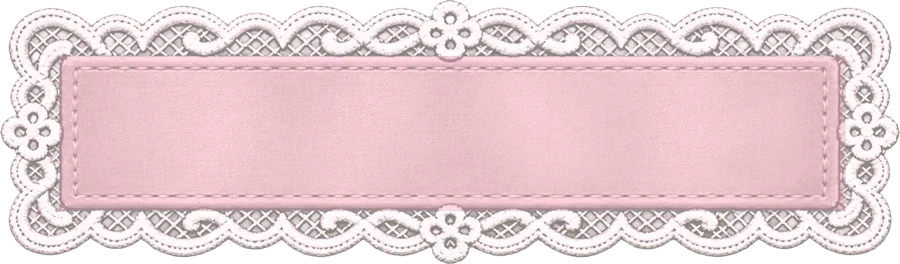
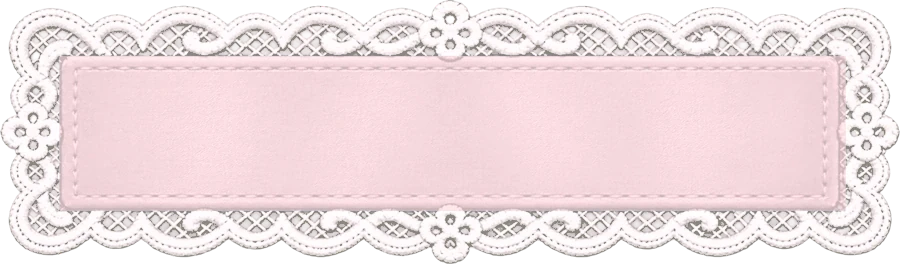
Lighter baby-pink labels (a new pale patch and lace); on phones AI와 상의 rises from the bottom as a sheet that can be pulled down or tapped away any time

diff --git a/components/newbook/AiPanel.tsx b/components/newbook/AiPanel.tsx
@@ -119,7 +119,13 @@ export function AiPanel({ draft, step, onApply }: { draft: Draft; step: number; 
   const [menu, setMenu] = useState<null | "main" | "rename" | "link">(null), [ask, setAsk] = useState<string | null>(null), [name, setName] = useState("");
   const [slid, setSlid] = useState<string | null>(null), [rowMenu, setRowMenu] = useState<string | null>(null);
   const msgsRef = useRef<HTMLDivElement>(null), inputRef = useRef<HTMLTextAreaElement>(null), wasOpen = useRef(false);
-  const setOpen = (o: boolean) => setChat(c => ({ ...c, open: o }));
+  const setOpen = (o: boolean) => {
+    if (o || !phone) { setChat(c => ({ ...c, open: o })); return; }
+    // phones: the sheet goes back down first (0.22s), then it is gone
+    setSinking(true); setTimeout(() => { setSinking(false); setDrag(0); setChat(c => ({ ...c, open: false })); }, matchMedia("(prefers-reduced-motion: reduce)").matches ? 0 : 220);
+  };
+  // phones: the sheet is pulled down by its top (the handle or the bar) and put away past 110px
+  const [drag, setDrag] = useState(0), [sinking, setSinking] = useState(false), y0 = useRef<number | null>(null);
   const go = (id: string | null) => { setMenu(null); setChat(c => ({ ...c, conv: id })); };
   const offChat = () => setChat(c => ({ ...c, off: true, checked: true }));
 
@@ -375,9 +381,14 @@ export function AiPanel({ draft, step, onApply }: { draft: Draft; step: number; 
   if (!open) return null;
   const phoneScreen: ReactNode = convId === null ? (counts.live || counts.arch ? list : chatPane) : chatPane;
   return (
-    <div className={"aic-root" + (phone ? " is-phone" : " is-wide") + (sheet ? " is-sheet" : "")}>
+    <div className={"aic-root" + (phone ? " is-phone" : " is-wide") + (sheet ? " is-sheet" : "") + (sinking ? " is-sinking" : "")}>
       <div className="aic-dim aic-back" onClick={() => setOpen(false)} />
-      <div className="aic-panel" role="dialog" aria-modal="true" aria-label="AI와 상의">
+      <div className="aic-panel" role="dialog" aria-modal="true" aria-label="AI와 상의"
+        style={phone && drag ? { transform: `translateY(${drag}px)`, transition: "none" } : undefined}
+        onTouchStart={phone ? e => { const top = e.currentTarget.getBoundingClientRect().top; y0.current = e.touches[0].clientY - top < 64 ? e.touches[0].clientY : null; } : undefined}
+        onTouchMove={phone ? e => { if (y0.current != null) setDrag(Math.max(0, e.touches[0].clientY - y0.current)); } : undefined}
+        onTouchEnd={phone ? () => { if (y0.current != null && drag > 110) setOpen(false); else setDrag(0); y0.current = null; } : undefined}>
+        {phone && <span className="aic-handle" aria-hidden="true" />}
         {phone ? phoneScreen : (
           <>
             {list}

diff --git a/components/ai/ai.css b/components/ai/ai.css
@@ -10,12 +10,15 @@
 .aic-icon{display:grid;place-items:center;width:44px;height:44px;padding:0;border:0;background:none;cursor:pointer;color:#3B302B}
 .aic-icon svg{width:22px;height:22px}
 
-/* ---- phones: the whole screen ---- */
-.aic-root.is-phone .aic-back{display:none}
-.aic-root.is-phone .aic-panel{inset:0;flex-direction:column;padding-top:env(safe-area-inset-top,0px)}
-/* inside 도안 만들기: a half sheet (about 560px) over the dimmed step */
-.aic-root.is-sheet .aic-back{display:block}
-.aic-root.is-sheet .aic-panel{inset:auto 0 0 0;height:min(560px,88dvh);padding-top:0;border-radius:18px 18px 0 0;box-shadow:0 -6px 24px rgba(60,42,34,.18);animation:aic-up .28s cubic-bezier(.22,.61,.36,1)}
+/* ---- phones: a sheet rising from the bottom over the dimmed screen, put away any time (drag its top down,
+   tap the dim, or ‹ / ✕); inside 도안 만들기 a half sheet (about 560px) until 전체 화면 ---- */
+.aic-root.is-phone .aic-panel{inset:auto 0 0 0;flex-direction:column;height:calc(100dvh - env(safe-area-inset-top,0px) - 28px);padding-top:14px;box-sizing:border-box;
+  border-radius:18px 18px 0 0;box-shadow:0 -6px 24px rgba(60,42,34,.18);animation:aic-rise .32s cubic-bezier(.22,.61,.36,1);transition:transform .22s ease}
+.aic-root.is-sheet .aic-panel{height:min(560px,88dvh)}
+.aic-handle{position:absolute;left:50%;top:6px;width:40px;height:4px;margin-left:-20px;border-radius:2px;background:#DCCFC6}
+.aic-root.is-sinking .aic-panel{transform:translateY(100%)!important;transition:transform .22s cubic-bezier(.5,0,.75,0)!important}
+.aic-root.is-sinking .aic-back{opacity:0;transition:opacity .22s ease}
+@keyframes aic-rise{from{transform:translateY(100%)}}
 
 /* ---- wide screens: a panel from the right, the list and the conversation side by side ---- */
 .aic-root.is-wide .aic-panel{top:0;right:0;bottom:0;width:min(760px,100vw);box-shadow:-10px 0 30px rgba(60,42,34,.18);animation:aic-in .28s cubic-bezier(.22,.61,.36,1)}

diff --git a/app/patches.css b/app/patches.css
@@ -1,7 +1,7 @@
 /* Every cloth label on the web is a real patch (Kim): the patch images of the phone's home
    (public/mobile/diary: frayed edge, running stitches, the cloth itself; border-image with fill, the middle
    repeated, never stretched). No painted weave, no drawn dashed stitches. Yellow, pink and cream as before;
-   lavender (patch_pink.webp) is the cream patch tinted to the book's lavender; 새 도안 만들기 (apricot) is cream.
+   lavender (patch_babypink.webp) is the cream patch tinted to the book's lavender; 새 도안 만들기 (apricot) is cream.
    The same patch as components/diary ClothPatch, kept here for the labels whose markup the book's pages share.
    Ribbons, cards and tags keep their own look. */
 html body .nav-label>span,html body .bk-new>span,html body .bk-label>span,html body .ps-label>span,html body .cloth-face,html body .pg-actions .pg-link,html body .tp-label{
@@ -14,7 +14,7 @@ html body .nav-label>span::before,html body .nav-label>span::after,html body .bk
 html body .nav-label,html body .bk-new,html body .pg-link.pg-link-lav{--patch:url(/mobile/diary/patch_yellow.webp)}
 html body .nav-label+.nav-label,html body .bk-label.is-rose,html body .pg-link.pg-link-rose{--patch:url(/mobile/diary/patch_blue.webp)}
 html body .pg-link.pg-link-apricot{--patch:url(/mobile/diary/patch_cream.webp)}
-html body .ps-label-go,html body .pg-link.pg-link-lilac{--patch:url(/mobile/diary/patch_pink.webp)}
+html body .ps-label-go,html body .pg-link.pg-link-lilac{--patch:url(/mobile/diary/patch_babypink.webp)}
 html body .ps-label-go>span{background:none}
 
 /* edge widths: the patch edge takes the old padding's place, so the words keep their room */

diff --git a/components/mobile/flow-mobile.css b/components/mobile/flow-mobile.css
@@ -201,7 +201,7 @@
   /* colours: yellow / cream / pink patches */
   body .mf-label.is-yellow,body .mtb-new,body .mm-new,body .mst-yellow{--patch:url(/mobile/diary/patch_yellow.webp)}
   body .mf-label.is-pink,body .mm-label.is-rose{--patch:url(/mobile/diary/patch_blue.webp)}
-  body .mm-label.is-lavender{--patch:url(/mobile/diary/patch_pink.webp)}
+  body .mm-label.is-lavender{--patch:url(/mobile/diary/patch_babypink.webp)}
   /* edge widths: the small ones thinner; the padding gives back what the edge takes */
   body .mtb-new>span,body .mm-new>span{--pw:9px;padding:0 10px}
   body .mm-new.is-big>span{--pw:10px;padding:0 14px}

diff --git a/components/diary/diary.css b/components/diary/diary.css
@@ -80,7 +80,7 @@ html body .mm-cover.is-diary .mm-tag{left:12%;top:4%}
 .dpatch-yellow{--patch:url(/mobile/diary/patch_yellow.webp)}
 .dpatch-cream{--patch:url(/mobile/diary/patch_cream.webp)}
 .dpatch-pink{--patch:url(/mobile/diary/patch_blue.webp)}
-.dpatch-lavender{--patch:url(/mobile/diary/patch_pink.webp)}
+.dpatch-lavender{--patch:url(/mobile/diary/patch_babypink.webp)}
 .dpatch:hover{transform:translateY(-1px)}
 .dpatch:active{transform:scale(.98)}
 .dpatch:focus-visible{outline:2px solid #3A2E29;outline-offset:2px}
